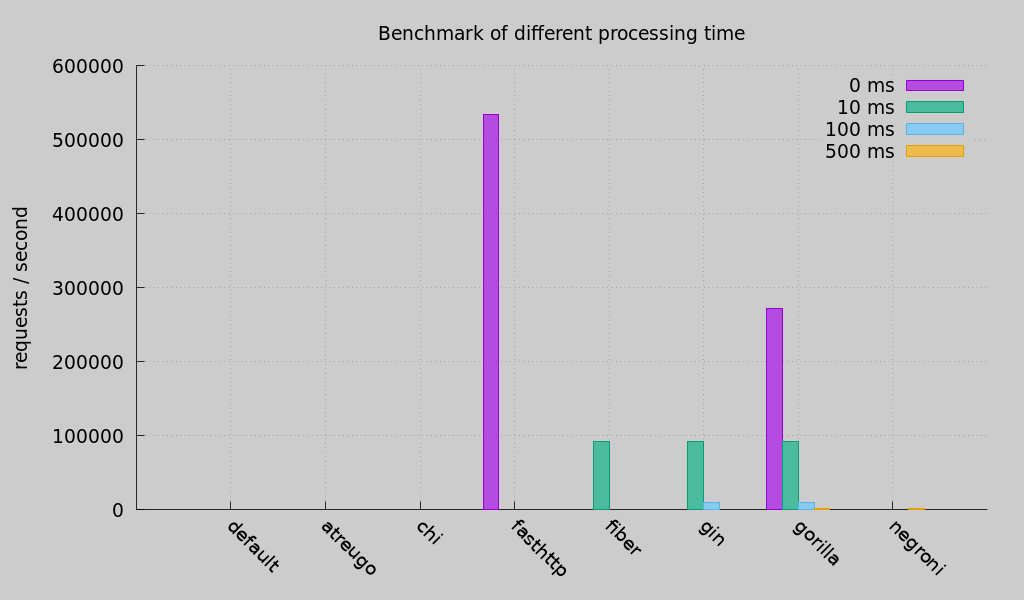
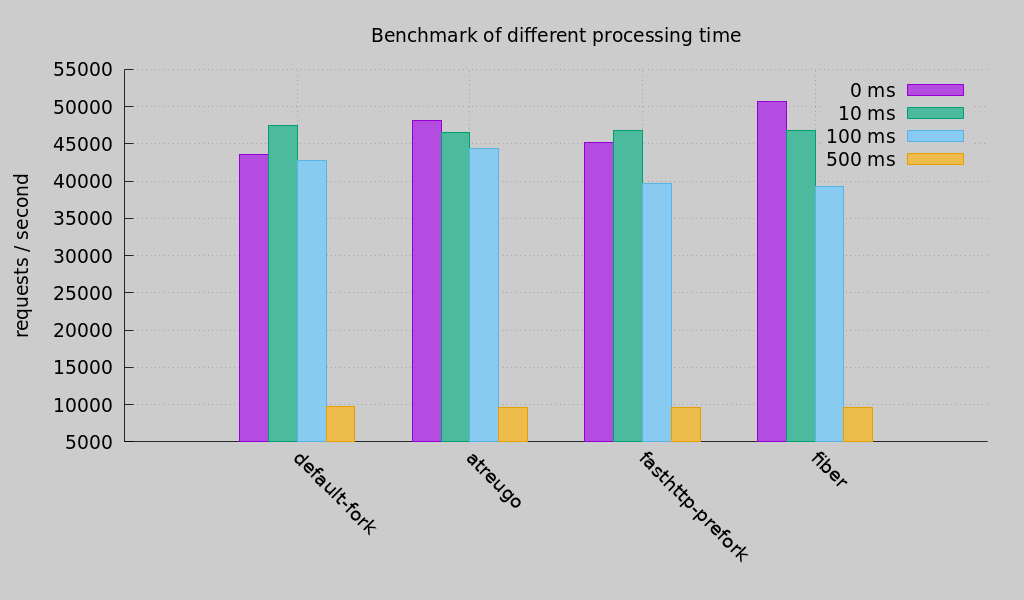
Change

diff --git a/server.go b/server.go
@@ -12,6 +12,7 @@ import (
 	"time"
 
 	"clevergo.tech/clevergo"
+	defaultforker "github.com/Ja7ad/forker"
 	"github.com/abemedia/go-don"
 	_ "github.com/abemedia/go-don/encoding/text"
 	"github.com/ant0ine/go-json-rest/rest"
@@ -59,6 +60,7 @@ import (
 	"github.com/tockins/fresh"
 	"github.com/urfave/negroni"
 	"github.com/valyala/fasthttp"
+	fasthttpprefork "github.com/valyala/fasthttp/prefork"
 	"github.com/vanng822/r2router"
 	"github.com/vardius/gorouter/v4"
 	vulcan "github.com/vulcand/route"
@@ -121,8 +123,14 @@ func main() {
 	case "default":
 		startDefaultMux()
 
+	case "default-prefork":
+		startDefaultMuxPrefork()
+
 	case "atreugo":
 		startAtreugo()
+	case "atreugo-prefork":
+		startAtreugoPrefork()
+
 	case "baa":
 		startBaa()
 	case "beego":
@@ -143,8 +151,12 @@ func main() {
 		startEcho()
 	case "echo-slim":
 		startEchoSlim()
+
 	case "fasthttp":
 		startFasthttp()
+	case "fasthttp-prefork":
+		startFasthttpPrefork()
+
 	case "fasthttprouter":
 		startFastHTTPRouter()
 	case "fasthttp/router":
@@ -153,8 +165,12 @@ func main() {
 		startFastHTTPRouting()
 	case "fastrouter":
 		startFastRouter()
+
 	case "fiber":
 		startFiber()
+	case "fiber-prefork":
+		startFiberPrefork()
+
 	case "fresh":
 		startFresh()
 	case "gear":
@@ -251,8 +267,32 @@ func helloHandler(w http.ResponseWriter, r *http.Request) {
 }
 
 func startDefaultMux() {
-	http.HandleFunc("/hello", helloHandler)
-	http.ListenAndServe(":"+strconv.Itoa(port), nil)
+	mux := http.NewServeMux()
+	mux.HandleFunc("/hello", helloHandler)
+	http.ListenAndServe(":"+strconv.Itoa(port), mux)
+}
+
+// default mux
+func helloHandlerFork() http.HandlerFunc {
+	return func(w http.ResponseWriter, r *http.Request) {
+		if cpuBound {
+			pow(target)
+		} else {
+			if sleepTime > 0 {
+				time.Sleep(sleepTimeDuration)
+			} else {
+				runtime.Gosched()
+			}
+		}
+		w.Write(message)
+	}
+}
+
+func startDefaultMuxPrefork() {
+	srv := &http.Server{}
+	http.HandleFunc("/hello", helloHandlerFork())
+	f := defaultforker.New(srv)
+	f.ListenAndServe(":" + strconv.Itoa(port))
 }
 
 // ace
@@ -289,6 +329,18 @@ func startAtreugo() {
 	server := atreugo.New(atreugo.Config{
 		Addr:                          ":" + strconv.Itoa(port),
 		Prefork:                       false,
+		NoDefaultDate:                 true,
+		NoDefaultContentType:          true,
+		DisableHeaderNamesNormalizing: true,
+	})
+	server.GET("/hello", atreugoHandler)
+	log.Fatal(server.ListenAndServe())
+}
+
+func startAtreugoPrefork() {
+	server := atreugo.New(atreugo.Config{
+		Addr:                          ":" + strconv.Itoa(port),
+		Prefork:                       true,
 		NoDefaultDate:                 true,
 		NoDefaultContentType:          true,
 		DisableHeaderNamesNormalizing: true,
@@ -495,6 +547,35 @@ func startEchoSlim() {
 	e.Start(":" + strconv.Itoa(port))
 }
 
+func startFasthttpPrefork() {
+	s := &fasthttp.Server{
+		Handler:                       fastHTTPPreforkHandler,
+		GetOnly:                       true,
+		NoDefaultDate:                 true,
+		NoDefaultContentType:          true,
+		DisableHeaderNamesNormalizing: true,
+	}
+
+	prefork := fasthttpprefork.New(s)
+
+	log.Fatal(prefork.ListenAndServe(":" + strconv.Itoa(port)))
+}
+
+// fasthttprouter
+func fastHTTPPreforkHandler(ctx *fasthttp.RequestCtx) {
+	if cpuBound {
+		pow(target)
+	} else {
+		if sleepTime > 0 {
+			time.Sleep(sleepTimeDuration)
+		} else {
+			runtime.Gosched()
+		}
+	}
+
+	ctx.Write(message)
+}
+
 func startFasthttp() {
 	s := &fasthttp.Server{
 		Handler:                       fastHTTPHandler,
@@ -616,6 +697,19 @@ func fiberHandler(c *fiber.Ctx) error {
 func startFiber() {
 	app := fiber.New(fiber.Config{
 		Prefork:                   false,
+		CaseSensitive:             true,
+		StrictRouting:             true,
+		DisableDefaultDate:        true,
+		DisableHeaderNormalizing:  true,
+		DisableDefaultContentType: true,
+	})
+	app.Get("/hello", fiberHandler)
+	log.Fatal(app.Listen(":" + strconv.Itoa(port)))
+}
+
+func startFiberPrefork() {
+	app := fiber.New(fiber.Config{
+		Prefork:                   true,
 		CaseSensitive:             true,
 		StrictRouting:             true,
 		DisableDefaultDate:        true,
@@ -1082,16 +1176,27 @@ func startPat() {
 }
 
 // pulse
+func pulseHandler(c *pulse.Context) error {
+	if cpuBound {
+		pow(target)
+	} else {
+		if sleepTime > 0 {
+			time.Sleep(sleepTimeDuration)
+		} else {
+			runtime.Gosched()
+		}
+	}
+	c.String(messageStr)
+	return nil
+}
+
 func startPulse() {
 	app := pulse.New()
 	router := pulse.NewRouter()
 
 	app.Router = router
 
-	router.Get("/hello", func(c *pulse.Context) error {
-		c.String(string(message))
-		return nil
-	})
+	router.Get("/hello", pulseHandler)
 
 	app.Run(":" + strconv.Itoa(port))
 }

diff --git a/README.md b/README.md
@@ -71,7 +71,7 @@ This benchmark suite aims to compare the performance of Go web frameworks. It is
 * [traffic](https://github.com/pilu/traffic)
 * [treemux](https://github.com/vmihailenco/treemux)
 * [violetear](https://github.com/nbari/violetear)
-* [vulcan](https://github.com/mailgun/route)
+* [vulcan](https://github.com/vulcand/route)
 * [webgo](https://github.com/bnkamalesh/webgo)
 
 **some libs have not been maintained and the test code has removed them**
